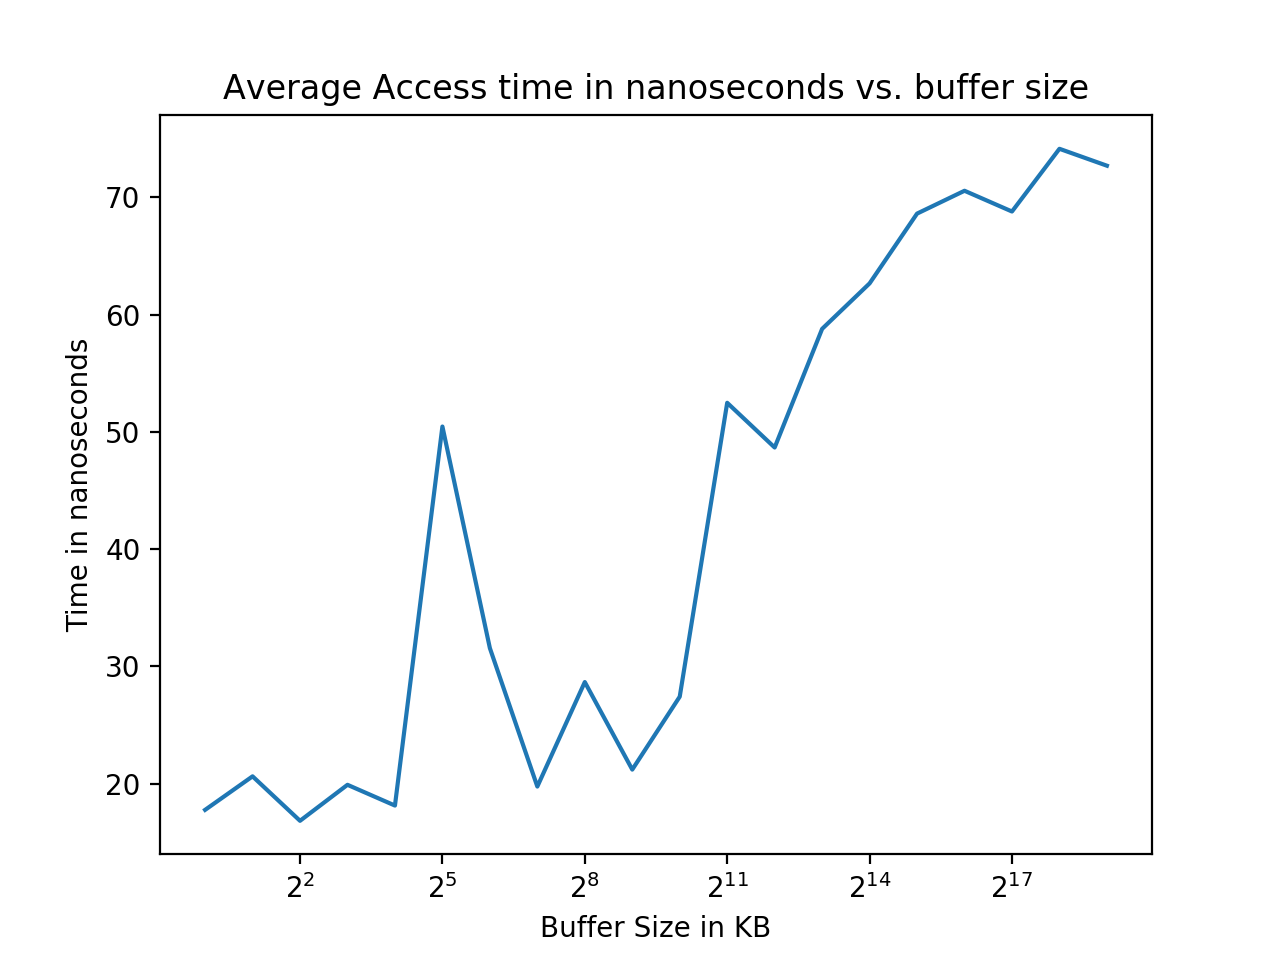
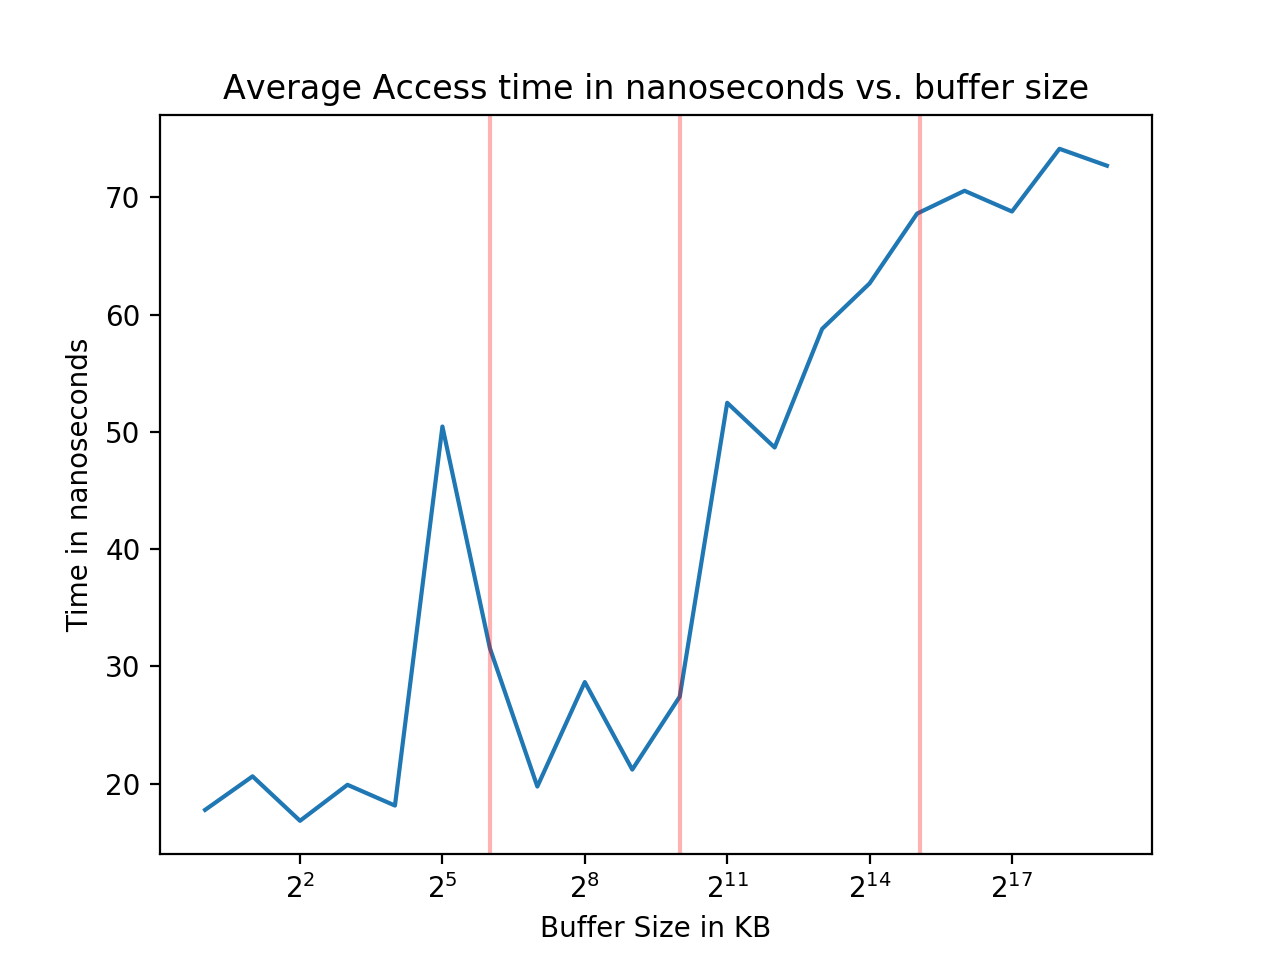
updated plots...again

diff --git a/systemshw1/plot_buffer.py b/systemshw1/plot_buffer.py
@@ -65,16 +65,19 @@ meds_ = take_median(coords_1_, coords_2_, coords_3_, coords_4_, coords_5_, coord
 import matplotlib.pyplot as plt
 
 
-plt.title("Median Access time in nanoseconds vs. buffer size")
+plt.title("Average Access time in nanoseconds vs. buffer size")
 
 x_axis = []
 for i in range(10,30):
     x_axis.append(2**(i)/1024)
 
-plt.plot(x_axis, meds_)
+plt.plot(x_axis, avgs_)
 
 #plt.xticks(x_axis)
 plt.xscale("log", basex=2)
 plt.xlabel("Buffer Size in KB")
 plt.ylabel("Time in nanoseconds")
+plt.axvline(x = 64, color = "r", alpha = 0.3)
+plt.axvline(x = 1028, color = "r", alpha = 0.3)
+plt.axvline(x = 34307, color = "r", alpha = 0.3)
 plt.show()
